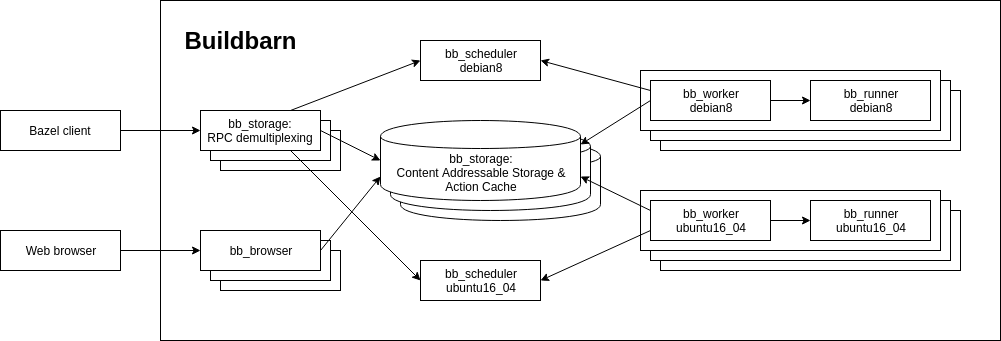
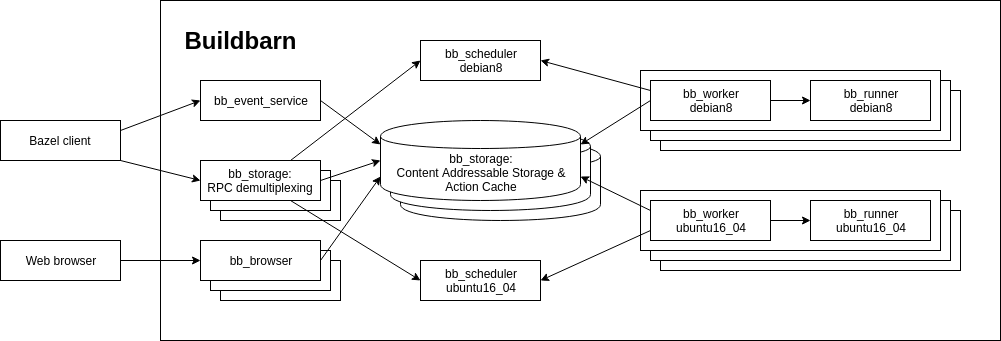
Hook up bb-event-service to all Docker-based deployments.

diff --git a/README.md b/README.md
@@ -16,7 +16,8 @@ following setup:
   official [Debian 8](https://console.cloud.google.com/marketplace/details/google/rbe-debian8)
   and [Ubuntu 16.04](https://console.cloud.google.com/marketplace/details/google/rbe-ubuntu16-04)
   images.
-- An installation of [Buildbarn Browser](https://github.com/buildbarn/bb-browser).
+- An installation of [the Buildbarn Browser](https://github.com/buildbarn/bb-browser).
+- An installation of [the Buildbarn Event Service](https://github.com/buildbarn/bb-event-service/).
 
 Below is a diagram of what this setup Buildbarn looks like. In this
 diagram, the arrows represent the direction in which network connections
@@ -52,12 +53,14 @@ to your `~/.bazelrc`, followed by the following set of options that are
 specific to your environment:
 
 ```
+build:mycluster-debian8 --bes_backend=fill-in-your-cluster-hostname-here:8983
 build:mycluster-debian8 --config=remote
 build:mycluster-debian8 --config=rbe-debian8
 build:mycluster-debian8 --jobs=64
 build:mycluster-debian8 --remote_executor=fill-in-your-cluster-hostname-here:8980
 build:mycluster-debian8 --remote_instance_name=debian8
 
+build:mycluster-ubuntu16-04 --bes_backend=fill-in-your-cluster-hostname-here:8983
 build:mycluster-ubuntu16-04 --config=remote
 build:mycluster-ubuntu16-04 --config=rbe-ubuntu16-04
 build:mycluster-ubuntu16-04 --jobs=64
